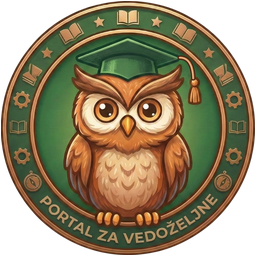
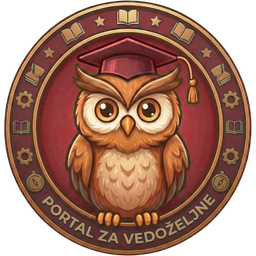
Rdeča sova kot ikona in logotip (iPhone, Android, zavihek)

diff --git a/index.html b/index.html
@@ -4,7 +4,11 @@
   <meta charset="UTF-8">
   <meta name="viewport" content="width=device-width, initial-scale=1.0">
   <title>Brihta — Šola</title>
-  <link rel="icon" href="brihta.png">
+  <link rel="icon" href="favicon-32.png" sizes="32x32">
+  <link rel="icon" href="brihta.png" sizes="256x256">
+  <link rel="apple-touch-icon" href="apple-touch-icon.png">
+  <meta name="apple-mobile-web-app-title" content="Brihta Šola">
+  <link rel="manifest" href="manifest.webmanifest">
   <meta name="theme-color" content="#fff8ef">
   <link rel="preload" href="pisave/nunito-latin.woff2" as="font" type="font/woff2" crossorigin>
   <link rel="stylesheet" href="pisave/nunito.css">

diff --git a/pisanje-besedil/index.html b/pisanje-besedil/index.html
@@ -5,6 +5,7 @@
 <meta name="viewport" content="width=device-width, initial-scale=1">
 <title>Moja besedila — Brihta</title>
 <link rel="icon" href="../brihta.png">
+<link rel="apple-touch-icon" href="../apple-touch-icon.png">
 <link rel="preload" href="../pisave/nunito-latin.woff2" as="font" type="font/woff2" crossorigin>
 <link rel="stylesheet" href="../pisave/nunito.css">
 <link rel="stylesheet" href="quill-2.0.3/quill.core.css">

diff --git a/CLAUDE.md b/CLAUDE.md
@@ -162,3 +162,9 @@ da so emojiji (tudi zastave) na Windows enaki kot drugod. Ko dodaš nov emoji v 
 gradivo (npr. `emoji=` v `.url`), poženi `python3 scripts/emoji_pisava.py` (potrebuje
 `pip3 install --user fonttools brotli`) in commitaj `pisave/` in `index.html`. Emoji, ki ga v
 podmnožici ni, se pokaže s sistemsko pisavo.
+
+## Ikona in logotip
+
+Rdeča sova (`brihta.png`, `apple-touch-icon.png`, `ikona-*.png`, `favicon-32.png`, `manifest.webmanifest`).
+Izvor je `ikona-1024.png`: logotip iz `matematika/Brihta.svg`, zeleni deli prebarvani v rdečo (odtenek ~359°),
+da se Šola loči od Matematike. Nove velikosti delaj iz `ikona-1024.png`.
